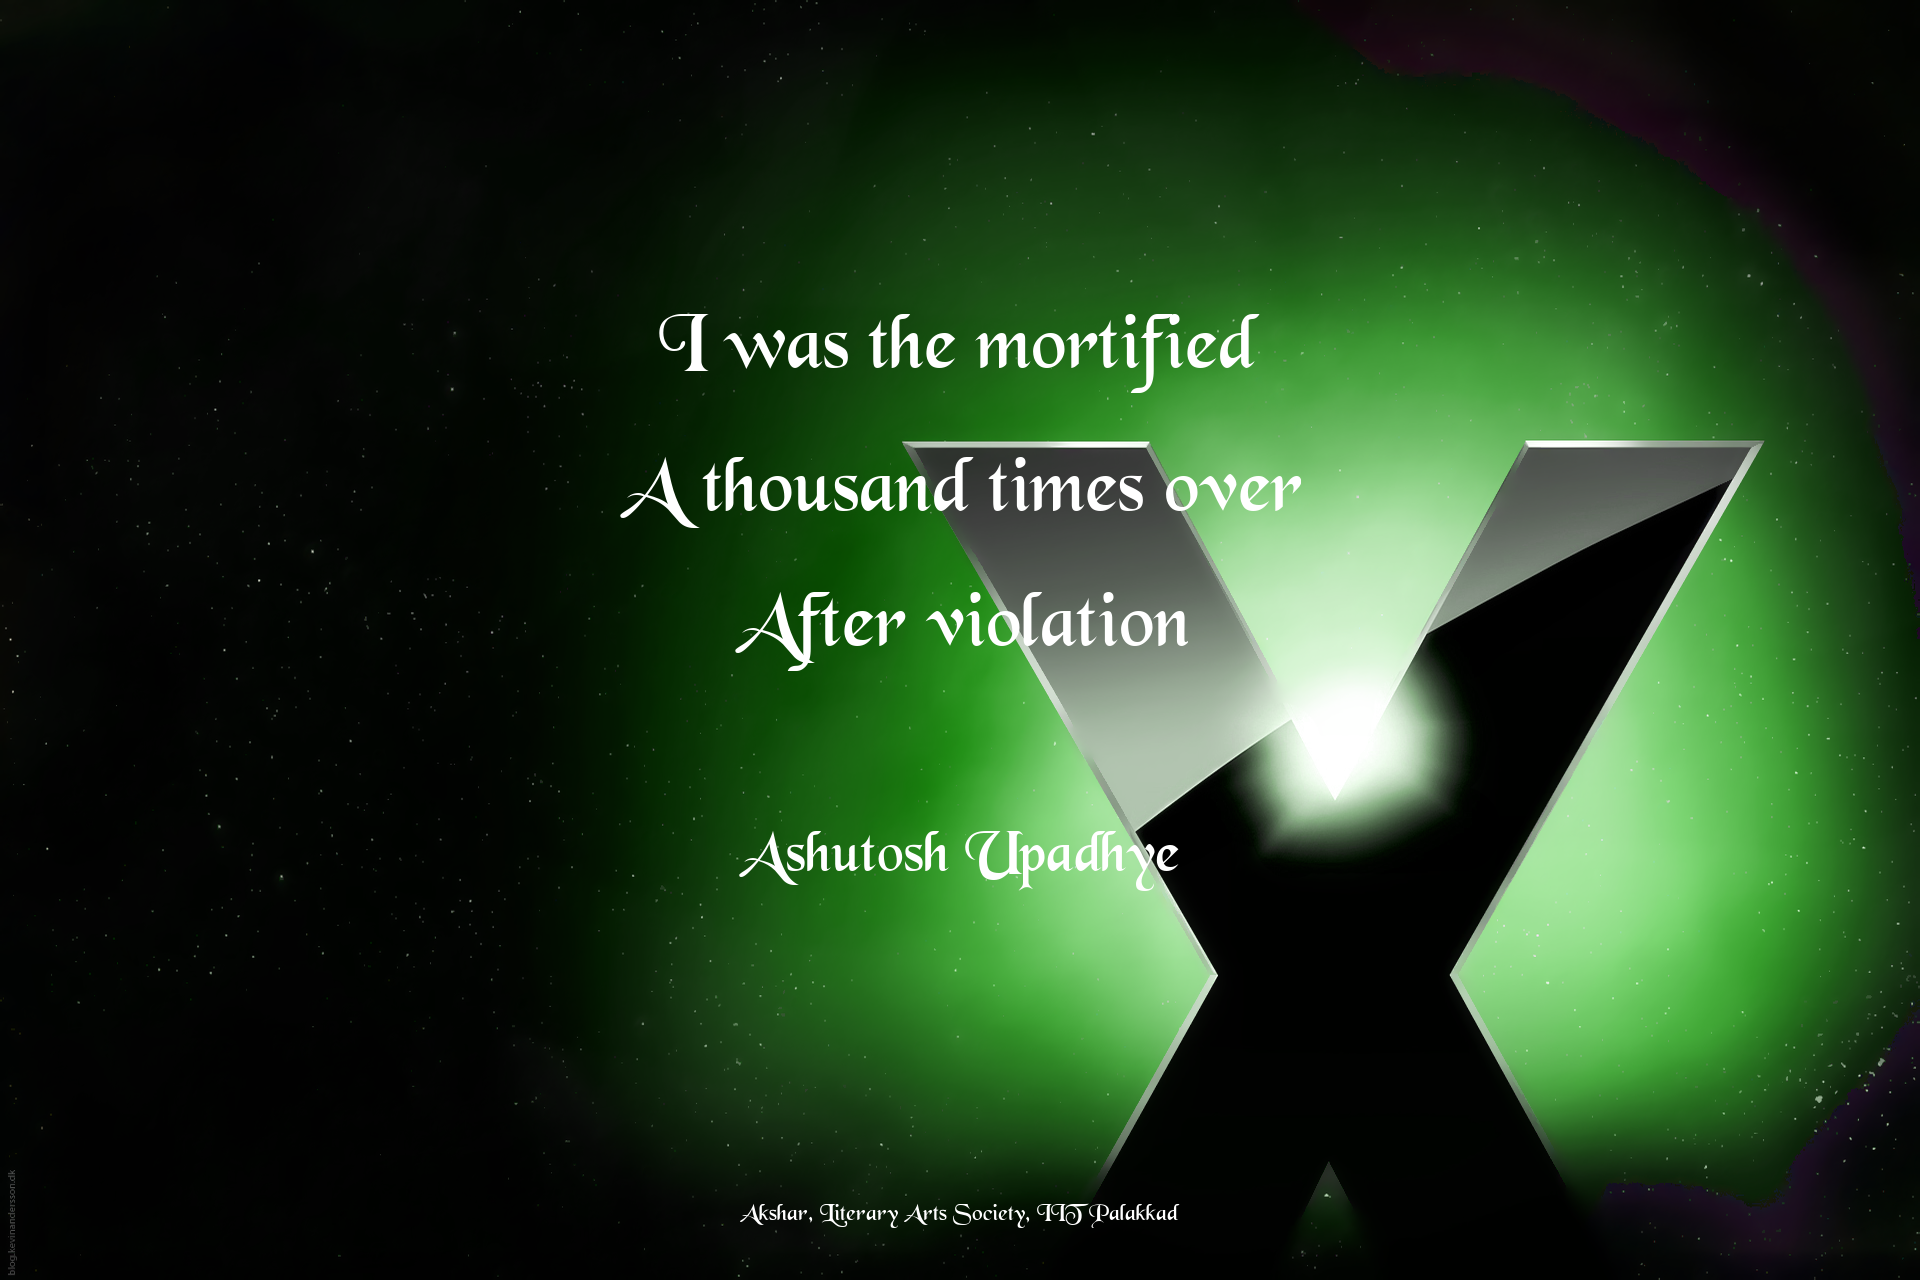
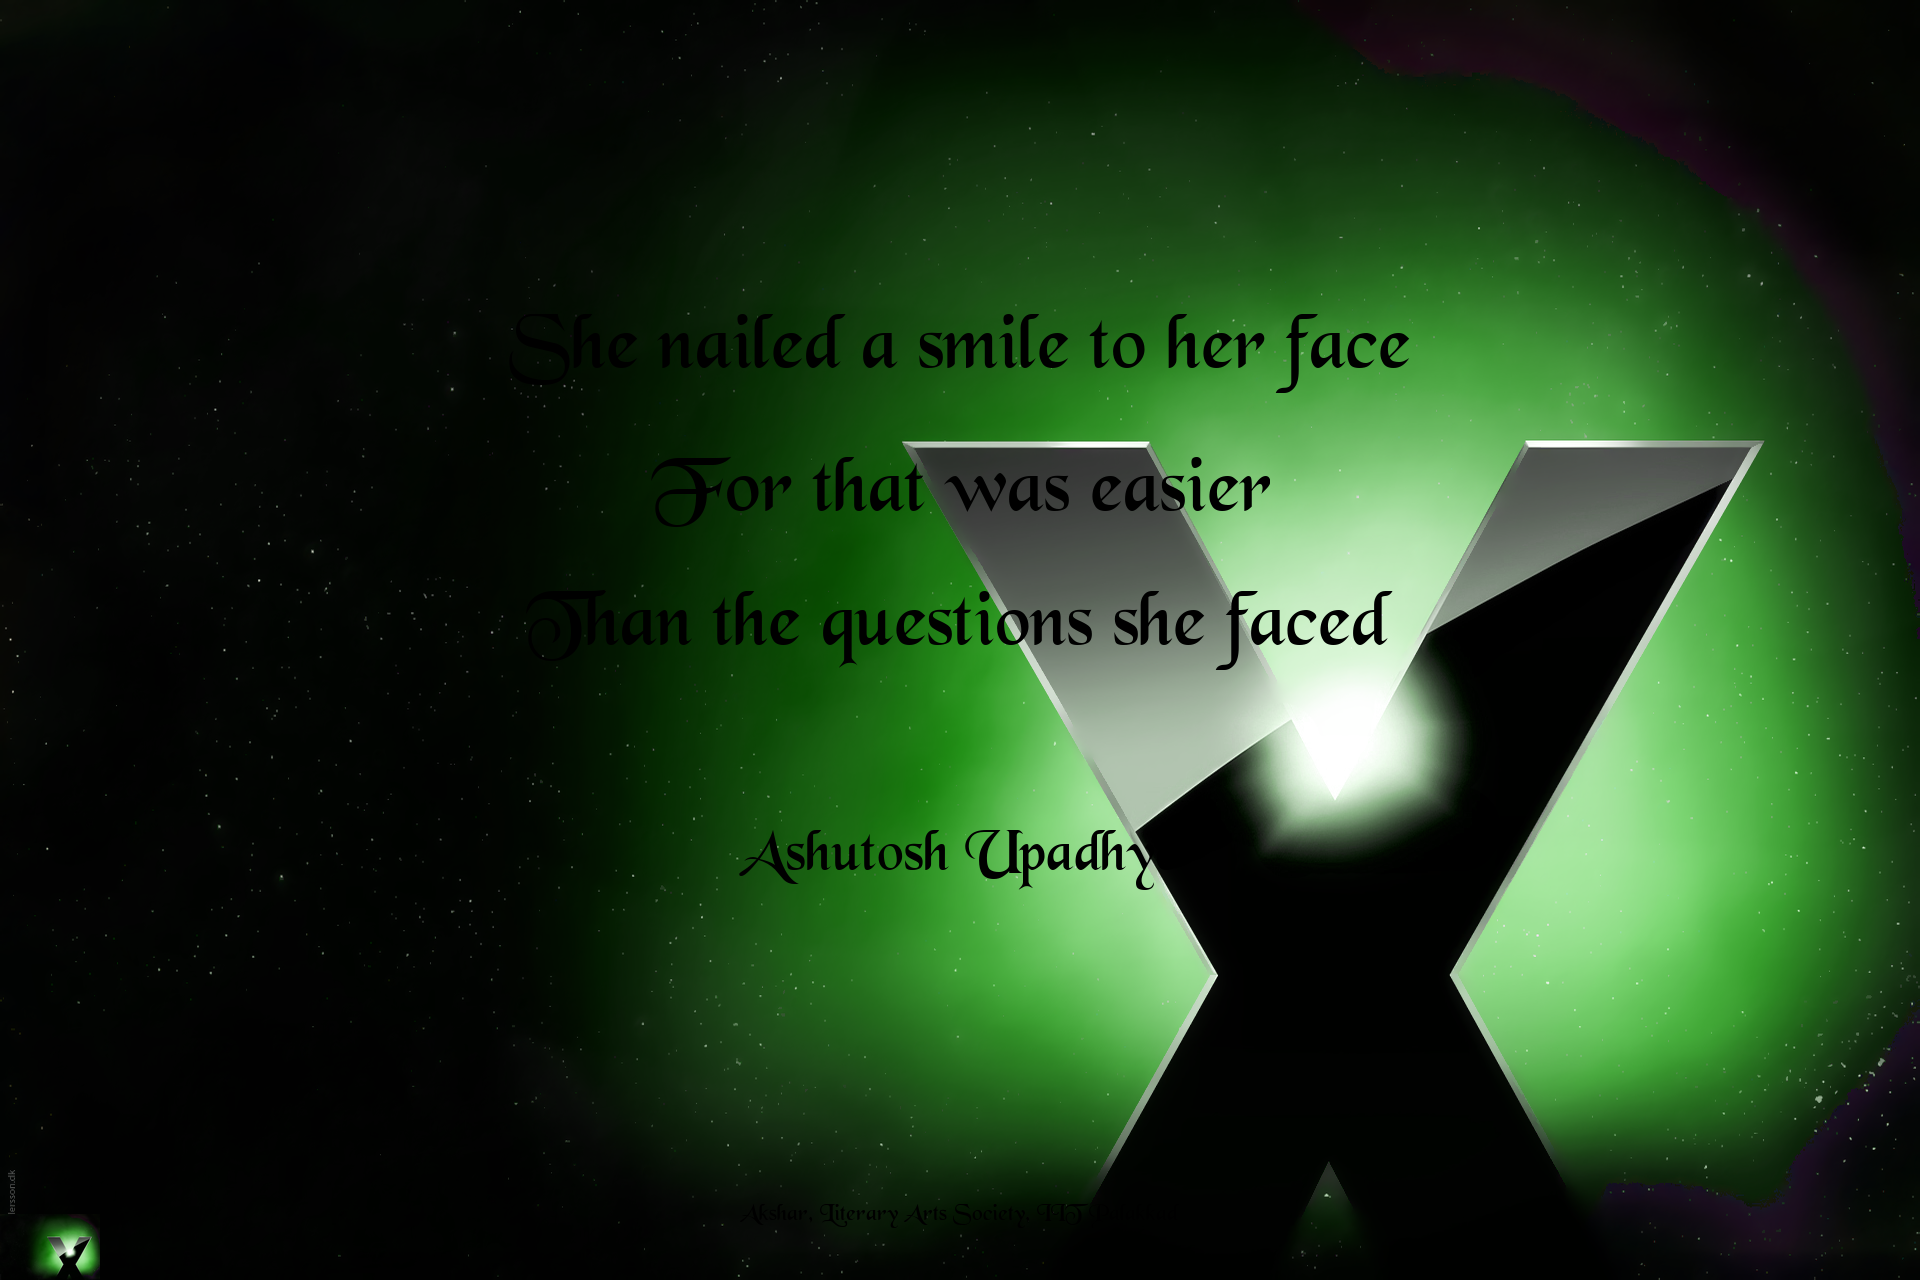
Added color option for the text

diff --git a/quoteGen.py b/quoteGen.py
@@ -44,24 +44,25 @@ for idx, val in enumerate(lines):
     for line in para:
         line = line.replace("\xe2\x80\x9c",'"').replace("\xe2\x80\x99","'").replace("\xe2\x80\x9d",'"')
         w, h = draw.textsize(line, font=font)
-        draw.text(((MAX_W - w) / 2, current_h), line, font=font)
+        draw.text(((MAX_W - w) / 2, current_h), line, font=font, fill=(0,0,0,255))
         current_h += h + pad
     # setting up padding and positioning for author text
     current_h2, pad2 = 900, 80
     currentauthor = authors[idx]
     w, h = draw.textsize(currentauthor, font=authorfont)
-    draw.text(((MAX_W - w) / 2, (current_h + 100)), currentauthor, font=authorfont)
+    draw.text(((MAX_W - w) / 2, (current_h + 100)), currentauthor, font=authorfont, fill=(0,0,0,255))
     current_h2 += h + pad2
     # setting up padding and positining for optional text
     current_h3, pad3 = 1200, 30
     sitelink = "Akshar, Literary Arts Society, IIT Palakkad"
     w, h = draw.textsize(sitelink, font=linkfont)
-    draw.text(((MAX_W - w) / 2, current_h3), sitelink, font=linkfont)
+    draw.text(((MAX_W - w) / 2, current_h3), sitelink, font=linkfont,fill=(0,0,0,255))
     current_h3 += h + pad3
-    im.save("out/image_%d.png" %idx)
     
     # loading optional logo and converting to RGBA for transparency support
-    # logo = Image.open('logo.png').convert('RGBA')
-    # logo_w, logo_h = logo.size
-    # im.paste(logo, (50,1150), logo)
+    logo = Image.open('logo.png').convert('RGBA')
+    logo = logo.resize((100, (100*1280)/1920), Image.ANTIALIAS)
+    logo_w, logo_h = logo.size
+    im.paste(logo, (0,1280-logo_h), logo)
     # saving the image to our chosen location
+    im.save("out/image_%d.png" %idx)
